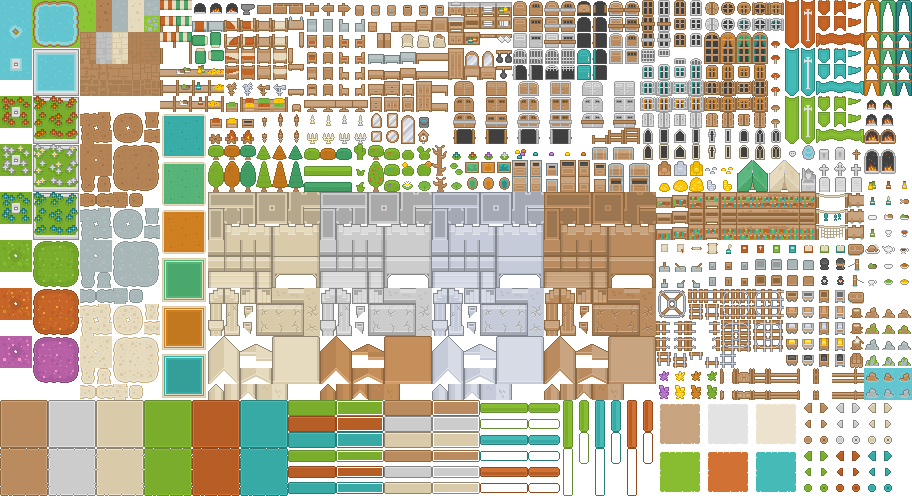
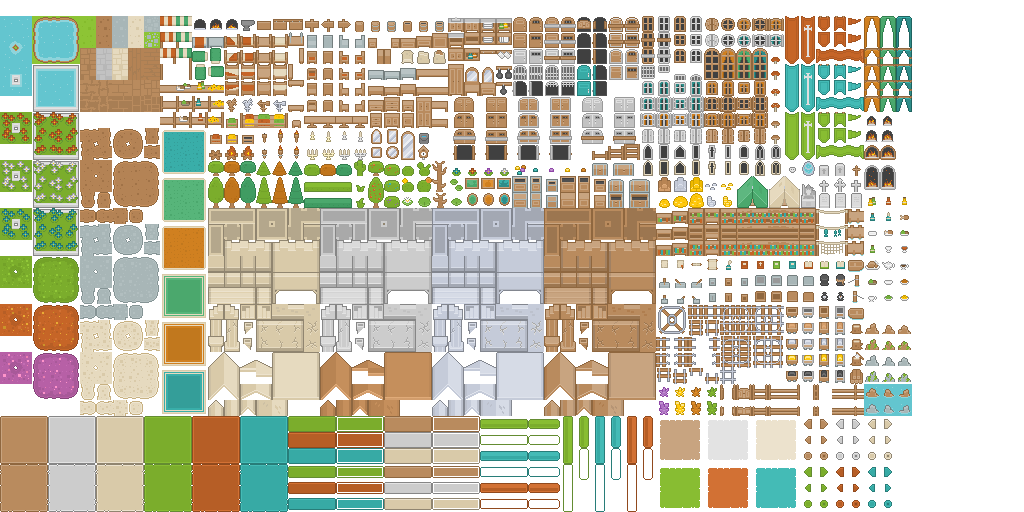
made spritesheet powers of two, added more cave levels

diff --git a/public/javascripts/sketches/game.js b/public/javascripts/sketches/game.js
@@ -7,17 +7,17 @@
 
             var material = new THREE.MeshBasicMaterial({
                 map: texture,
-                transparent: true,
-                side: THREE.DoubleSide
+                transparent: true
+                // side: THREE.DoubleSide
             });
 
             return material;
         }
 
         var MATERIALS = {
-            "tiles": load("/images/roguelikeSheet_transparent.png", 912, 496),
-            "dungeon": load("/images/roguelikeDungeon_transparent.png", 464, 288),
-            "characters": load("/images/roguelikeChar_transparent.png", 864, 192)
+            "tiles": load("/images/roguelikeSheet_transparent.png", 1024, 512),
+            "dungeon": load("/images/roguelikeDungeon_transparent.png", 512, 512),
+            "characters": load("/images/roguelikeChar_transparent.png", 1024, 256)
         };
 
         var geometryCache = {};
@@ -725,12 +725,13 @@
         levels.push(Map.buildCaveLevel(w, h, 1));
         levels.push(Map.buildCaveLevel(w, h, 2));
         levels.push(Map.buildCaveLevel(w, h, 3));
-        levels.push(Map.buildLastLevel(4));
-        scene.add(levels[0].mesh);
-        scene.add(levels[1].mesh);
-        scene.add(levels[2].mesh);
-        scene.add(levels[3].mesh);
-        scene.add(levels[4].mesh);
+        levels.push(Map.buildCaveLevel(w, h, 4));
+        levels.push(Map.buildCaveLevel(w, h, 5));
+        levels.push(Map.buildCaveLevel(w, h, 6));
+        levels.push(Map.buildLastLevel(7));
+        levels.forEach(function(level) {
+            scene.add(level.mesh);
+        });
 
         scene.add(GameObjects.makeEnemy(new THREE.Vector3(23, 19, 0)));
         scene.add(GameObjects.makeEnemy(new THREE.Vector3(14, 10, 0)));
@@ -741,11 +742,11 @@
 
     function animate(millisElapsed) {
         stats.begin();
-            scene.traverse(function(object) {
-                if (object.animate) {
-                    object.animate(millisElapsed);
-                }
-            });
+        scene.traverse(function(object) {
+            if (object.animate) {
+                object.animate(millisElapsed);
+            }
+        });
         renderer.render(scene, camera);
         stats.end();
         rendererStats.update(renderer);
